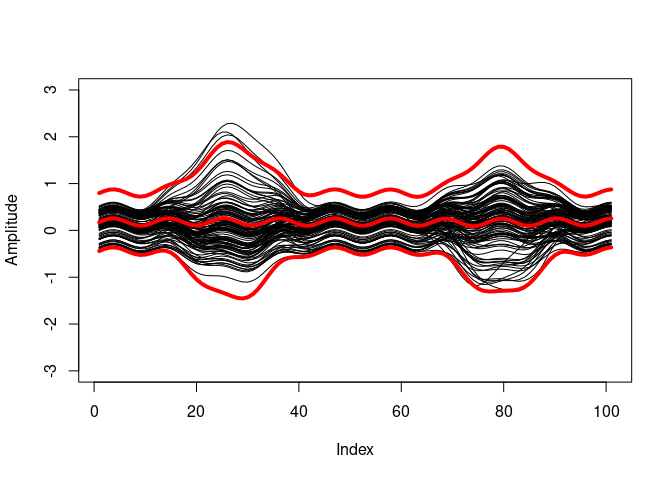
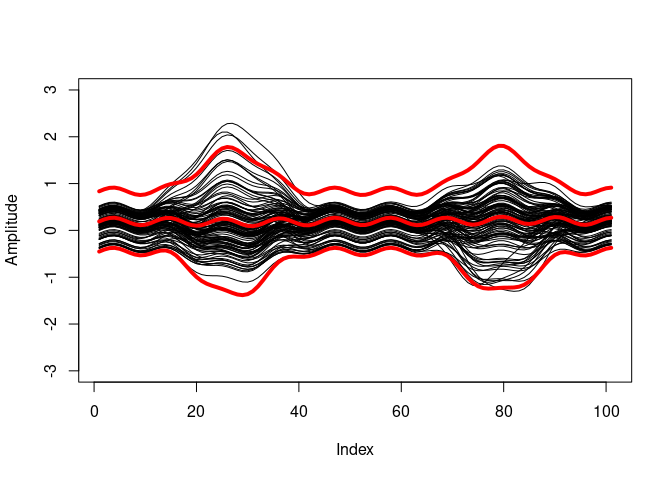
Minor text edit

diff --git a/README.md b/README.md
@@ -16,14 +16,12 @@ program by Doris Oriwol and later translated into R and extended with an
 approach to handle hierarchical data (see also
 <https://github.com/koda86/floa>).
 
-<!-- Bugfix bei der Berechnung -->
-
 More details can be found in this publication (and the vignette):
 
 Koska, D., Oriwol, D., & Maiwald, C. (2023). Comparison of statistical
 models for characterizing continuous differences between two
-biomechanical measurement systems. Journal of Biomechanics, J. Biomech.
-149, <https://doi.org/10.1016/j.jbiomech.2023.111506>.
+biomechanical measurement systems. Journal of Biomechanics 149,
+<https://doi.org/10.1016/j.jbiomech.2023.111506>.
 
 ## Citation
 
@@ -66,7 +64,7 @@ prediction.band <- band(data,
 rownames(prediction.band)
 #> [1] "upper" "mean"  "lower"
 str(prediction.band)
-#>  num [1:3, 1:101] 0.797 0.178 -0.441 0.841 0.222 ...
+#>  num [1:3, 1:101] 0.835 0.191 -0.452 0.879 0.235 ...
 #>  - attr(*, "dimnames")=List of 2
 #>   ..$ : chr [1:3] "upper" "mean" "lower"
 #>   ..$ : NULL
